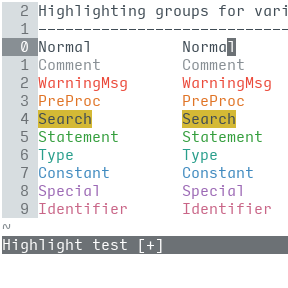
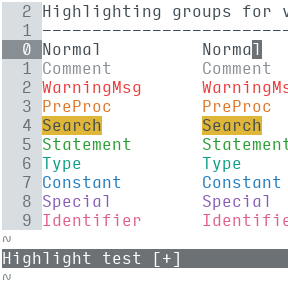
overhaul

Changed region(s): [[0.0, 0.0, 1.0, 0.9688]]

diff --git a/README.md b/README.md
@@ -76,14 +76,8 @@ let g:seagrey_light_LineNr = 'off'
 
 <blockquote>
   <ul>
-    <li>accent colour hues were selected at the scale of 1/12 (30°) colour wheel intervals, followed by 1/6 subinterval adjustments</li>
-    <li>base colour hue was selected from among:
-      <ul>
-        <li>the 24 hues available at the scale of 1/24 (15°) colour wheel intervals</li>
-        <li>the additional fine-tuned accent hues</li>
-      </ul>
-    </li>
-    <li>discrete intervals were also used for tuning colour saturations (1/24) and values (1/12)</li>
+    <li><strong>hues</strong> were selected at the scale of 1/48 (7.5°) colour wheel intervals</li>
+    <li><strong>saturations</strong> and <strong>values</strong> were adjusted at the scale of 1/12 and 1/24, respectively</li>
     <li>the <a href="https://www.w3.org/TR/UNDERSTANDING-WCAG20/visual-audio-contrast-contrast.html#visual-audio-contrast-contrast-73-head">ISO 3:1 contrast standard</a> is met by nearly all text/background combinations, exceptions being made for some transient-highlighted backgrounds (e.g. cursorcolumn, cursorline)</li>
   </ul>
 </blockquote>
@@ -98,68 +92,68 @@ let g:seagrey_light_LineNr = 'off'
   </thead>
   <tbody>
     <tr>
-      <td style="text-align: right"><img src="http://www.colorhexa.com/1d252b.png" height="24" width="42" /> <code class="highlighter-rouge">1d252b</code> </td>
-      <td style="text-align: center"><img src="http://www.colorhexa.com/eb493a.png" height="24" width="42" /> <code class="highlighter-rouge">eb493a</code> </td>
-      <td style="text-align: left"><img src="http://www.colorhexa.com/eb6e63.png" height="24" width="42" /> <code class="highlighter-rouge">eb6e63</code></td>
+      <td style="text-align: right"><img src="http://www.colorhexa.com/1d262b.png" height="24" width="42" /> <code class="highlighter-rouge">1d262b</code> </td>
+      <td style="text-align: center"><img src="http://www.colorhexa.com/e04a4a.png" height="24" width="42" /> <code class="highlighter-rouge">e04a4a</code> </td>
+      <td style="text-align: left"><img src="http://www.colorhexa.com/bf6060.png" height="24" width="42" /> <code class="highlighter-rouge">bf6060</code></td>
     </tr>
     <tr>
-      <td style="text-align: right"><img src="http://www.colorhexa.com/303940.png" height="24" width="42" /> <code class="highlighter-rouge">303940</code> </td>
-      <td style="text-align: center"><img src="http://www.colorhexa.com/e07426.png" height="24" width="42" /> <code class="highlighter-rouge">e07426</code> </td>
-      <td style="text-align: left"><img src="http://www.colorhexa.com/e0945e.png" height="24" width="42" /> <code class="highlighter-rouge">e0945e</code></td>
+      <td style="text-align: right"><img src="http://www.colorhexa.com/303a40.png" height="24" width="42" /> <code class="highlighter-rouge">303a40</code> </td>
+      <td style="text-align: center"><img src="http://www.colorhexa.com/e07538.png" height="24" width="42" /> <code class="highlighter-rouge">e07538</code> </td>
+      <td style="text-align: left"><img src="http://www.colorhexa.com/b5734c.png" height="24" width="42" /> <code class="highlighter-rouge">b5734c</code></td>
     </tr>
     <tr>
-      <td style="text-align: right"><img src="http://www.colorhexa.com/3f4b54.png" height="24" width="42" /> <code class="highlighter-rouge">3f4b54</code> </td>
-      <td style="text-align: center"><img src="http://www.colorhexa.com/d4b935.png" height="24" width="42" /> <code class="highlighter-rouge">d4b935</code> </td>
-      <td style="text-align: left"><img src="http://www.colorhexa.com/bfaf60.png" height="24" width="42" /> <code class="highlighter-rouge">bfaf60</code></td>
+      <td style="text-align: right"><img src="http://www.colorhexa.com/3f4c54.png" height="24" width="42" /> <code class="highlighter-rouge">3f4c54</code> </td>
+      <td style="text-align: center"><img src="http://www.colorhexa.com/d4ac35.png" height="24" width="42" /> <code class="highlighter-rouge">d4ac35</code> </td>
+      <td style="text-align: left"><img src="http://www.colorhexa.com/ab9248.png" height="24" width="42" /> <code class="highlighter-rouge">ab9248</code></td>
     </tr>
     <tr>
-      <td style="text-align: right"><img src="http://www.colorhexa.com/6c7175.png" height="24" width="42" /> <code class="highlighter-rouge">6c7175</code> </td>
-      <td style="text-align: center"><img src="http://www.colorhexa.com/349e3d.png" height="24" width="42" /> <code class="highlighter-rouge">349e3d</code> </td>
-      <td style="text-align: left"><img src="http://www.colorhexa.com/5c9e61.png" height="24" width="42" /> <code class="highlighter-rouge">5c9e61</code></td>
+      <td style="text-align: right"><img src="http://www.colorhexa.com/6c7275.png" height="24" width="42" /> <code class="highlighter-rouge">6c7275</code> </td>
+      <td style="text-align: center"><img src="http://www.colorhexa.com/349e42.png" height="24" width="42" /> <code class="highlighter-rouge">349e42</code> </td>
+      <td style="text-align: left"><img src="http://www.colorhexa.com/508a58.png" height="24" width="42" /> <code class="highlighter-rouge">508a58</code></td>
     </tr>
     <tr>
-      <td style="text-align: right"><img src="http://www.colorhexa.com/888f94.png" height="24" width="42" /> <code class="highlighter-rouge">888f94</code> </td>
-      <td style="text-align: center"><img src="http://www.colorhexa.com/289e8b.png" height="24" width="42" /> <code class="highlighter-rouge">289e8b</code> </td>
-      <td style="text-align: left"><img src="http://www.colorhexa.com/4f9e91.png" height="24" width="42" /> <code class="highlighter-rouge">4f9e91</code></td>
+      <td style="text-align: right"><img src="http://www.colorhexa.com/889094.png" height="24" width="42" /> <code class="highlighter-rouge">889094</code> </td>
+      <td style="text-align: center"><img src="http://www.colorhexa.com/289e8e.png" height="24" width="42" /> <code class="highlighter-rouge">289e8e</code> </td>
+      <td style="text-align: left"><img src="http://www.colorhexa.com/458a81.png" height="24" width="42" /> <code class="highlighter-rouge">458a81</code></td>
     </tr>
     <tr>
       <td style="text-align: right"><img src="http://www.colorhexa.com/b8bcbf.png" height="24" width="42" /> <code class="highlighter-rouge">b8bcbf</code> </td>
-      <td style="text-align: center"><img src="http://www.colorhexa.com/3f8abf.png" height="24" width="42" /> <code class="highlighter-rouge">3f8abf</code> </td>
-      <td style="text-align: left"><img src="http://www.colorhexa.com/6f9ebf.png" height="24" width="42" /> <code class="highlighter-rouge">6f9ebf</code></td>
+      <td style="text-align: center"><img src="http://www.colorhexa.com/3f90bf.png" height="24" width="42" /> <code class="highlighter-rouge">3f90bf</code> </td>
+      <td style="text-align: left"><img src="http://www.colorhexa.com/5c869e.png" height="24" width="42" /> <code class="highlighter-rouge">5c869e</code></td>
     </tr>
     <tr>
       <td style="text-align: right"><img src="http://www.colorhexa.com/d7dde0.png" height="24" width="42" /> <code class="highlighter-rouge">d7dde0</code> </td>
-      <td style="text-align: center"><img src="http://www.colorhexa.com/9c69b5.png" height="24" width="42" /> <code class="highlighter-rouge">9c69b5</code> </td>
-      <td style="text-align: left"><img src="http://www.colorhexa.com/a688b5.png" height="24" width="42" /> <code class="highlighter-rouge">a688b5</code></td>
+      <td style="text-align: center"><img src="http://www.colorhexa.com/9969b5.png" height="24" width="42" /> <code class="highlighter-rouge">9969b5</code> </td>
+      <td style="text-align: left"><img src="http://www.colorhexa.com/876f94.png" height="24" width="42" /> <code class="highlighter-rouge">876f94</code></td>
     </tr>
     <tr>
       <td style="text-align: right"><img src="http://www.colorhexa.com/ffffff.png" height="24" width="42" /> <code class="highlighter-rouge">ffffff</code> </td>
-      <td style="text-align: center"><img src="http://www.colorhexa.com/c96587.png" height="24" width="42" /> <code class="highlighter-rouge">c96587</code> </td>
-      <td style="text-align: left"><img src="http://www.colorhexa.com/c9879d.png" height="24" width="42" /> <code class="highlighter-rouge">c9879d</code></td>
+      <td style="text-align: center"><img src="http://www.colorhexa.com/d46a85.png" height="24" width="42" /> <code class="highlighter-rouge">d46a85</code> </td>
+      <td style="text-align: left"><img src="http://www.colorhexa.com/b5697c.png" height="24" width="42" /> <code class="highlighter-rouge">b5697c</code></td>
     </tr>
   </tbody>
 </table>
 
-<p><img src="http://www.colorhexa.com/eb493a.png" height="24" width="42" />
+<p><img src="http://www.colorhexa.com/e04a4a.png" height="24" width="42" />
 <strong>Red</strong>, the colour of alarm, is used for <strong>warning elements</strong>, including error messages, misspellings, and diff deletions.</p>
 
-<p><img src="http://www.colorhexa.com/e07426.png" height="24" width="42" />
+<p><img src="http://www.colorhexa.com/e07538.png" height="24" width="42" />
 <strong>Orange</strong>, the colour of fire, can be associated with the preliminary “warmup” phase of some activity; literally, this could be the heating-up of a hearth for forging, or a stove for cooking. Orange is therefore used for <strong>preliminary elements</strong>, such as preprocessor commands (which prepare data to be handled by another program), incremental searching (that is, a search term in the process of being typed), titles, and miscapitalized words.</p>
 
-<p><img src="http://www.colorhexa.com/d4b935.png" height="24" width="42" />
+<p><img src="http://www.colorhexa.com/d4ac35.png" height="24" width="42" />
 <strong>Yellow</strong>, the classic highlighting colour, is applied to elements that are not warnings, yet should draw attention with high visibility. These <strong>highlighted elements</strong> include search results, task tags (<code class="highlighter-rouge">TODO</code>, <code class="highlighter-rouge">FIXME</code>…), and diff changes.</p>
 
-<p><img src="http://www.colorhexa.com/349e3d.png" height="24" width="42" />
+<p><img src="http://www.colorhexa.com/349e42.png" height="24" width="42" />
 <strong>Green</strong>, the colour that says “go ahead, proceed with the task at hand”, is used for <strong>action elements</strong>, such as statements (if/then, while/do, case…), mode indicators (insert, visual…), vim user prompts, and diff additions.</p>
 
-<p><img src="http://www.colorhexa.com/289e8b.png" height="24" width="42" />
+<p><img src="http://www.colorhexa.com/289e8e.png" height="24" width="42" />
 <strong>Teal</strong> is named after the “common teal”, a kind of duck, thus connecting this colour with the concept of “species”, which is a means of classifying life into very specific types. Teal is therefore used for specifying <strong>object types</strong>, such as data type (boolean, integer, string…) or storage class (static, volatile…), as well as marking mislocalized words (that is, words that are not misspelled but of the wrong type, namely a foreign locale type).</p>
 
-<p><img src="http://www.colorhexa.com/3f8abf.png" height="24" width="42" />
+<p><img src="http://www.colorhexa.com/3f90bf.png" height="24" width="42" />
 <strong>Blue</strong>, a colour of calm stability, is used for <strong>constants</strong>, which come in the form of boolean values, integers, floating-point numbers, characters, and strings.</p>
 
-<p><img src="http://www.colorhexa.com/9c69b5.png" height="24" width="42" />
+<p><img src="http://www.colorhexa.com/9969b5.png" height="24" width="42" />
 <strong>Purple</strong>, often associated with (historically) rare purple dyes produced for special works of art, is used for <strong>special text</strong>, including special characters (standalone or within syntax units), vim tags, and debugging statements. Rarely-used words are also marked, allowing the writer to consider whether such a specially uncommon word is appropriate.</p>
 
-<p><img src="http://www.colorhexa.com/c96587.png" height="24" width="42" />
+<p><img src="http://www.colorhexa.com/d46a85.png" height="24" width="42" />
 <strong>Pink</strong>, the colour of spring blossoms, is used for <strong>object names</strong>, including the names of variables and functions. To code is to bring countless objects blossoming into life as one types their names.</p>
